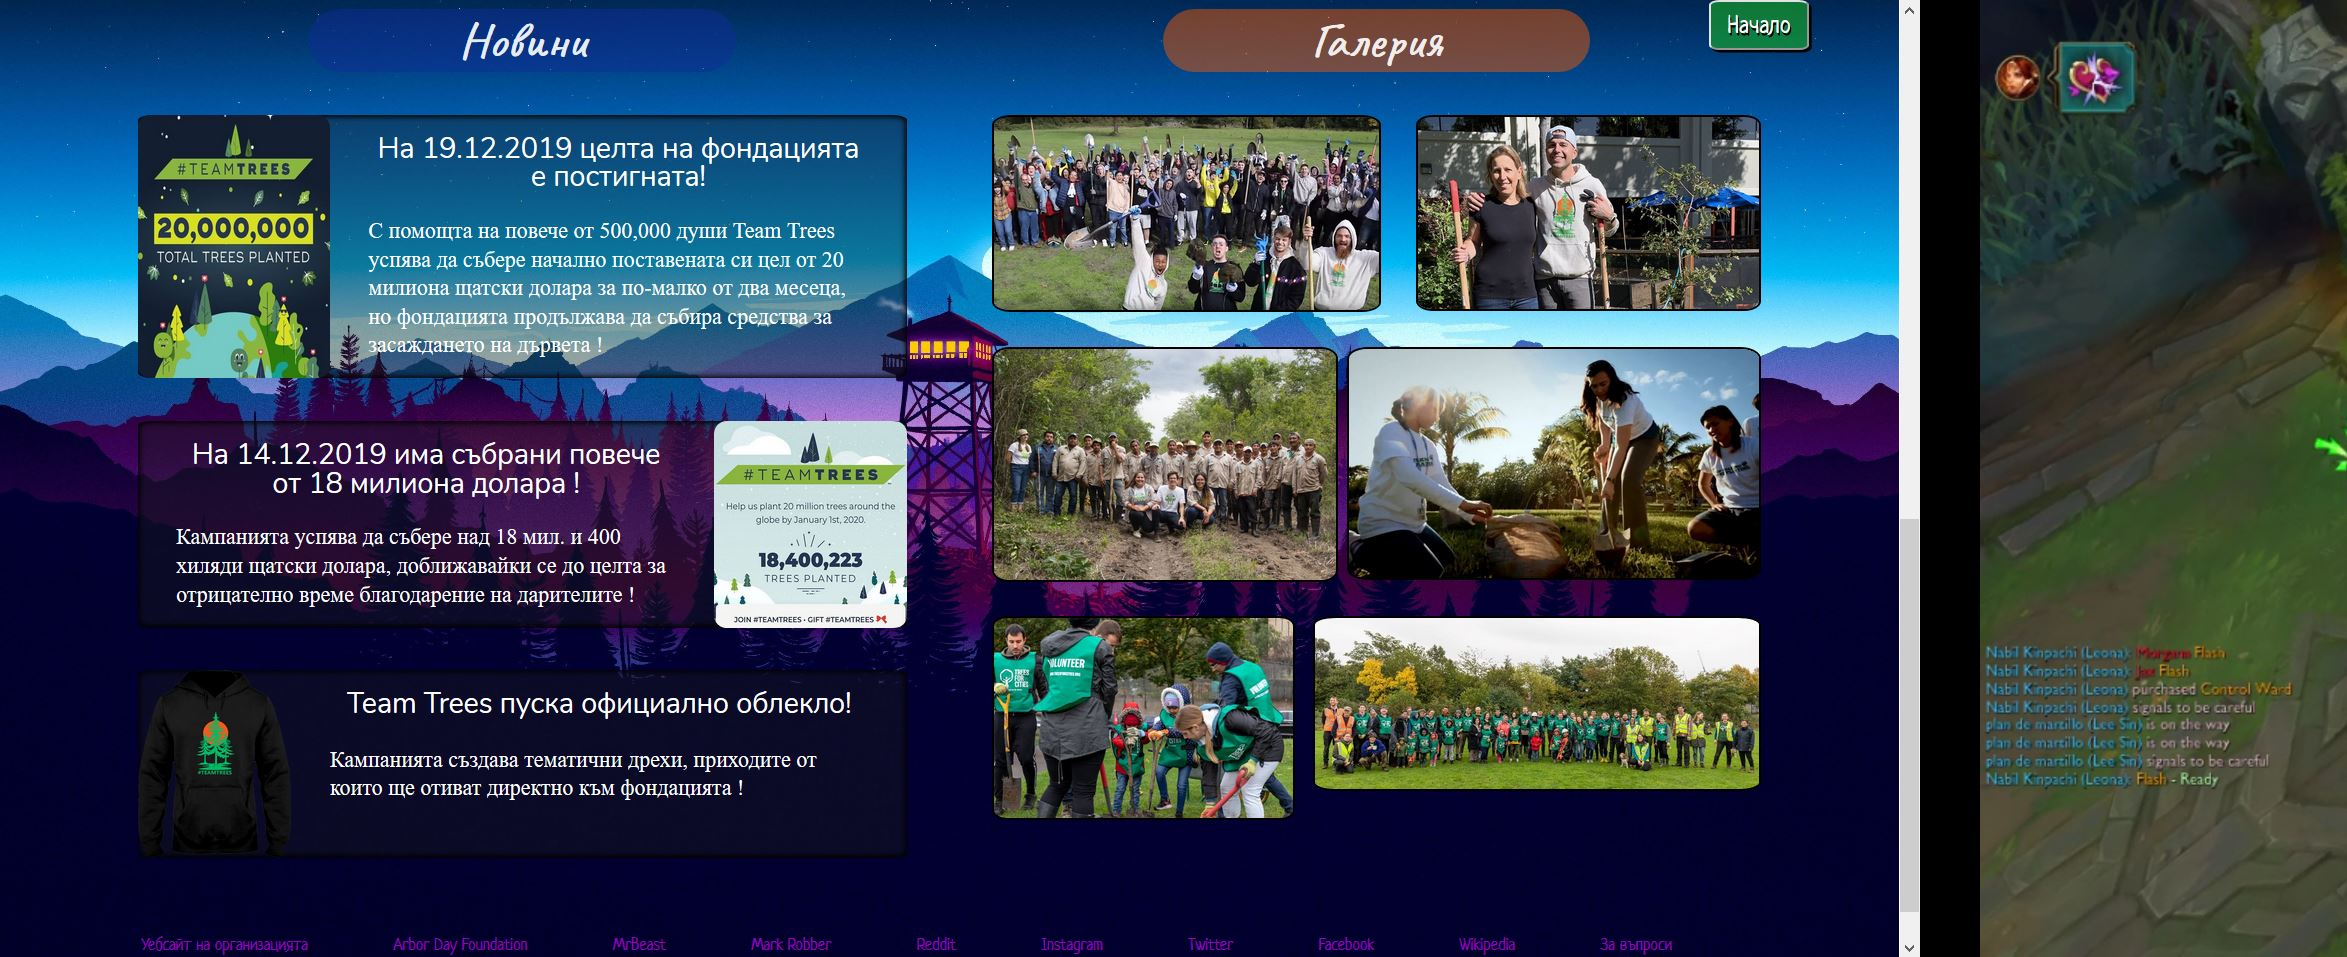
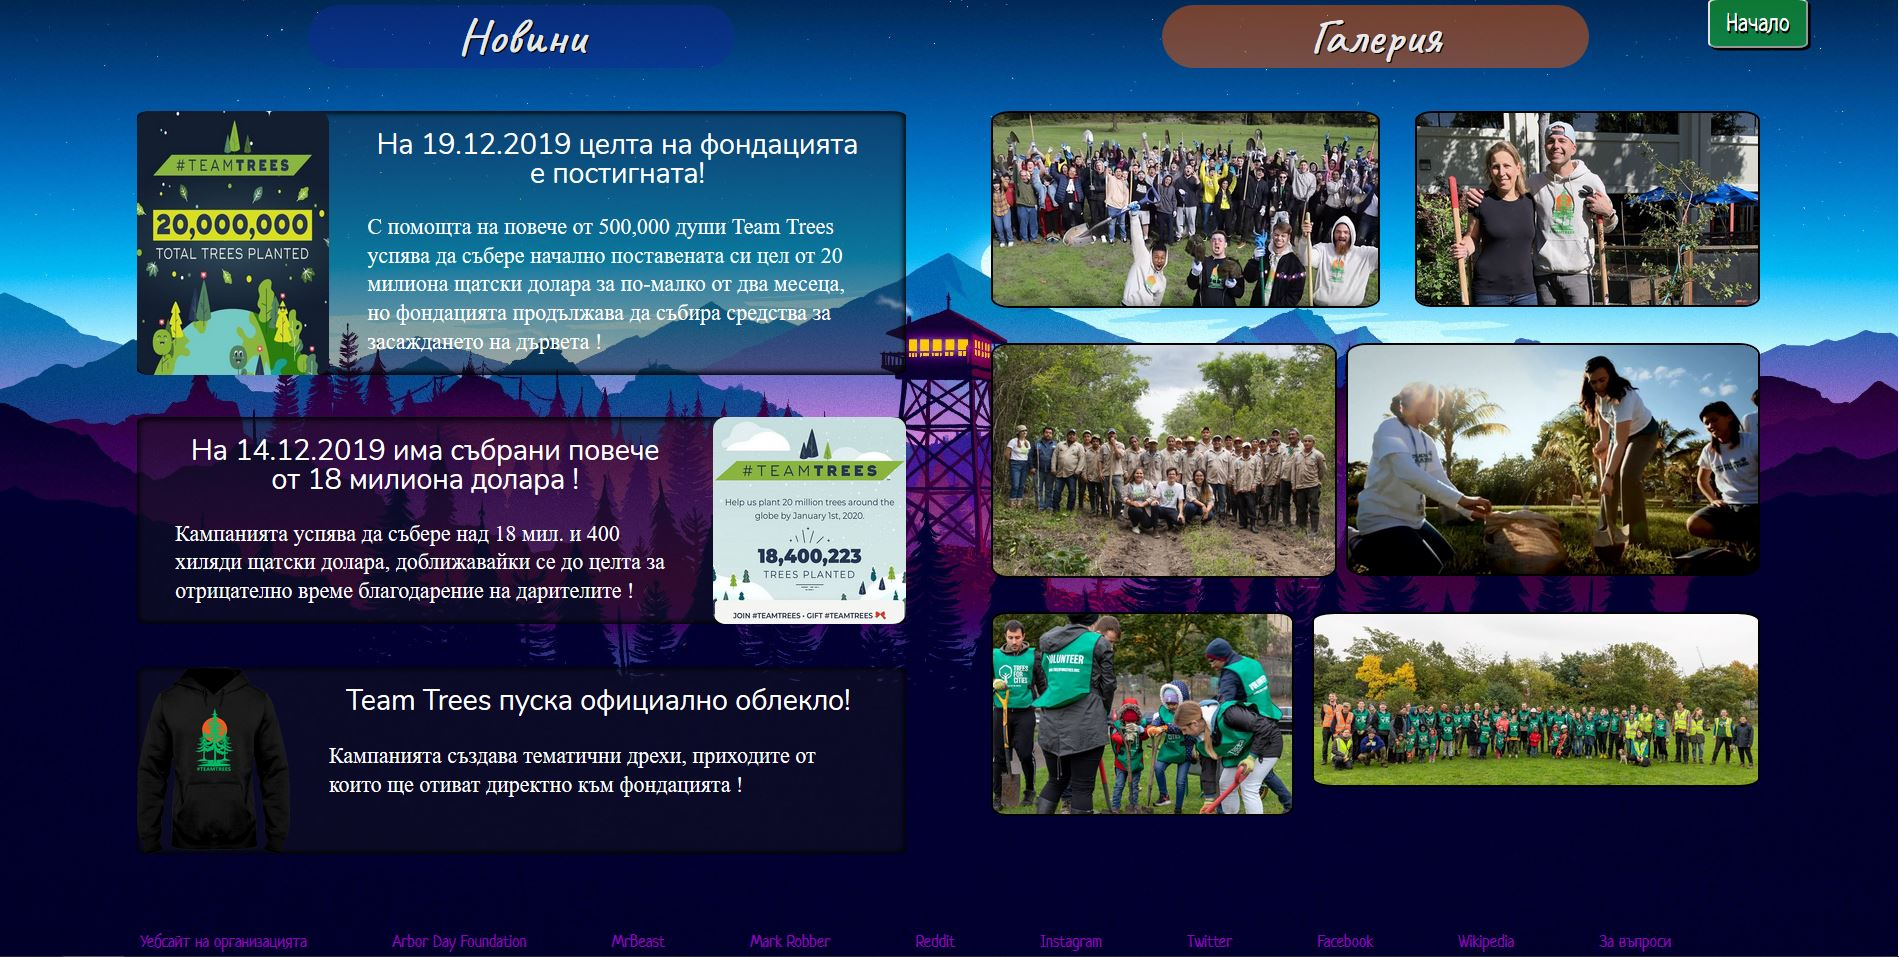
Changes to the styling of the page

diff --git a/style/style.css b/style/style.css
@@ -59,7 +59,7 @@ header {
 }
 
 #logo {
-  max-width: 80%;
+  max-width: 85%;
   margin: 2%;
 }
 
@@ -71,7 +71,7 @@ header {
 
 .headerSocial {
   float: right;
-  width: 23%;
+  width: 24%;
 }
 
 .headerSocial img {
@@ -90,10 +90,9 @@ header {
 
 nav {
   width: 50%;
-  margin: 5em auto;
+  margin: 6% auto;
   margin-bottom: 10%;
-  height: 5vh;
-  color: white;
+  height: 4vh;
 }
 
 #btns {
@@ -129,13 +128,13 @@ nav {
   justify-content: space-between;
 }
 
-#leftPanel {
+#leftPanel, main, #rightPanel {
   width: 30%;
-  height: 52vh;
   border-radius: 5%;
   background-color: rgba(255, 255, 255, 0.1);
   text-decoration: none;
   margin-bottom: 5%;
+  padding-bottom: 2%;
   overflow: auto;
 }
 
@@ -155,28 +154,18 @@ nav {
   margin: auto;
 }
 
-#leftPanel p {
-  padding-top: 2%;
-  margin: 3% 5%;
+#leftPanel p, main p, #rightPanel p {
+  margin: 6% 5%;
   color: rgb(255, 255, 255);
   font-size: 1.1em;
-  text-indent: 30px;
-  line-height: 25px;
+  text-indent: 1.5em;
+  line-height: 1.5em;
 }
 
 #leftPanel a {
   color: white;
   text-decoration: none;
   font-style: italic;
-}
-
-main {
-  width: 30%;
-  height: 52vh;
-  border-radius: 5%;
-  background-color: rgba(255, 255, 255, 0.1);
-  overflow: auto;
-  margin-bottom: 5%;
 }
 
 main:hover {
@@ -194,24 +183,6 @@ main h3{
   margin: auto;
 }
 
-main p {
-  padding-top: 2%;
-  margin: 3% 5%;
-  color: rgb(255, 255, 255);
-  font-size: 1.1em;
-  text-indent: 30px;
-  line-height: 25px;
-}
-
-#rightPanel {
-  width: 30%;
-  height: 52vh;
-  border-radius: 5%;
-  background-color: rgba(255, 255, 255, 0.1);
-  overflow: auto;
-  margin-bottom: 5%;
-}
-
 #rightPanel:hover {
   color: rgb(255, 255, 255);
 }
@@ -227,15 +198,6 @@ main p {
   margin: auto;
 }
 
-#rightPanel p {
-  padding-top: 2%;
-  margin: 3% 5%;
-  color: rgb(255, 255, 255);
-  font-size: 1.1em;
-  text-indent: 30px;
-  line-height: 25px;
-}
-
 .newsAndGalleryBackground {
   background: url("../images/wallpaper2.jpg") right top fixed no-repeat;
   background-size: cover;
@@ -247,6 +209,11 @@ main p {
   height: 95vh;
   margin: 0 5%;
   display: flex;
+}
+
+.newsAndGallery h4{
+   text-shadow: 1px 1px black;
+   color: white;
 }
 
 #news {
@@ -263,6 +230,16 @@ main p {
   width: 50%;
   border-radius: 50px;
   color: rgba(255, 255, 255, 0.9);
+}
+
+#news h4:hover {
+  animation-name: newsTitleHover;
+  animation-duration: 2s;
+}
+
+#gallery h4:hover {
+  animation-name: galleryTitleHover;
+  animation-duration: 2s;
 }
 
 .newsInfo {
@@ -368,15 +345,15 @@ main p {
   animation-duration: 3s;
 }
 
-  footer {
-    padding: 3% 0 1% 0;
-    background-image: url("../images/footer.jpg");
-    background-size: cover;
-    font-family: 'Neucha', cursive;
-    color: rgb(208, 208, 208);
-    background-color: rgb(15, 6, 36);
-    text-align: center;
-  }
+footer {
+  padding: 3% 0 1% 0;
+  background-image: url("../images/footer.jpg");
+  background-size: cover;
+  font-family: 'Neucha', cursive;
+  color: rgb(208, 208, 208);
+  background-color: rgb(15, 6, 36);
+  text-align: center;
+}
 
 footer h6 {
   font-size: 1em;
@@ -448,6 +425,18 @@ footer h6:hover {
 
   100% {
     color: rgba(0, 0, 0, 1);
+  }
+}
+
+@keyframes newsTitleHover {
+  50% {
+    background-color: rgba(0, 0, 150, 0.5);
+  }
+}
+
+@keyframes galleryTitleHover {
+  50% {
+    background-color: rgba(245, 81, 0, 0.6);
   }
 }
 
@@ -616,6 +605,7 @@ footer h6:hover {
 
     nav {
       width: 100%;
+      margin: 45% auto 20% auto;
     }
 
     #btns li a {

diff --git a/index.html b/index.html
@@ -93,7 +93,7 @@
       </div>
       <div id="gallery">
         <div class="picturesTitle">
-          <h4 id="tst">Галерия</h4>
+          <h4>Галерия</h4>
         </div>
           <div class="pictures">
             <a href="https://beartruthnews.com/2844/entertainment/youtubers-come-together-to-plant-20-million-trees/" target="_blank"><img id="picture1" src="./images/plantingTrees.jpg" alt="A group of people planting trees"></a>
